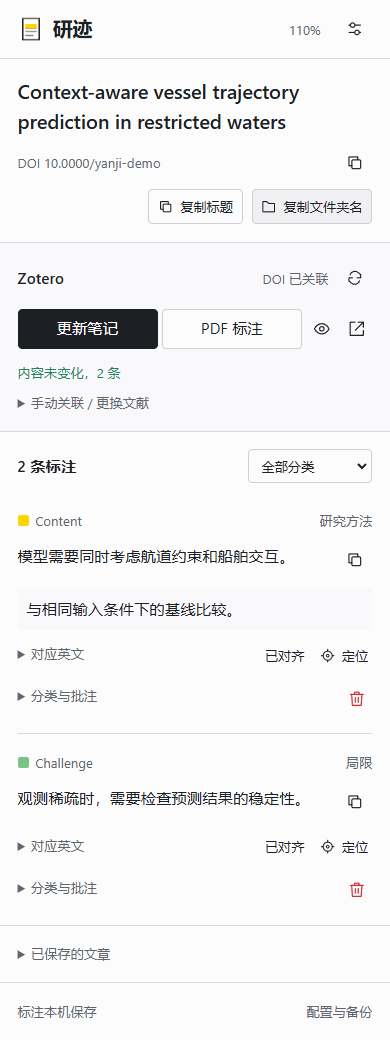
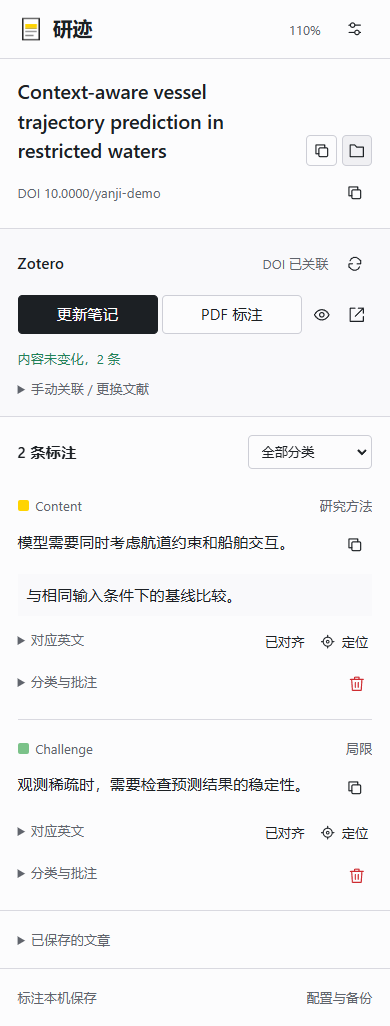
标题右下保留两个纯图标复制按钮，移除可见文字

diff --git a/yanji-edge/ui.css b/yanji-edge/ui.css
@@ -2,4 +2,4 @@
 *{box-sizing:border-box}body{margin:0;font:inherit;color:inherit}button,input,select,textarea{font:inherit;color:inherit}button{cursor:pointer;min-height:34px;border:.5px solid var(--control-line);border-radius:4px;background:var(--bg);padding:5px 10px;display:inline-flex;align-items:center;justify-content:center;gap:6px}button:hover{background:var(--element)}button.primary{background:var(--accent);border-color:var(--accent);color:var(--on-accent)}button.primary:hover{background:var(--accent-hover)}button:disabled{cursor:default;color:var(--disabled);background:var(--ground);border-color:var(--line)}button.danger{color:var(--error)}button.icon{width:32px;min-height:32px;padding:7px;border-color:transparent;background:transparent;flex:none}button.icon:hover{background:var(--element)}button.quiet{border-color:transparent;background:transparent;color:var(--muted)}button.quiet:hover{background:var(--element);color:var(--text)}svg{flex:none;pointer-events:none}button:focus-visible,input:focus-visible,select:focus-visible,textarea:focus-visible,summary:focus-visible,a:focus-visible,label[role=button]:focus-visible{outline:.5px solid var(--text);outline-offset:3px}input,select,textarea{border:.5px solid var(--control-line);border-radius:4px;background:var(--bg);padding:6px 8px;min-width:0}textarea{resize:vertical;min-height:88px;width:100%}input[type=checkbox]{accent-color:var(--accent);width:16px;height:16px;flex:none;margin:0}input[type=range]{accent-color:var(--muted);padding:0;height:30px}a{color:inherit}p{margin:8px 0}h1{font-size:18px;line-height:1.5;margin:8px 0;font-weight:600;overflow-wrap:anywhere}h2{font-size:14px;font-weight:600;margin:0 0 16px}small,.muted{font-size:12px;color:var(--muted)}[hidden]{display:none!important}.row{display:flex;align-items:center;gap:8px;flex-wrap:wrap}.between{justify-content:space-between}.status{font-size:12px;color:var(--muted);white-space:pre-wrap;overflow-wrap:anywhere;margin:8px 0}.status:empty{display:none}.status.error{color:var(--error)}.status.success{color:var(--success)}.brand{display:flex;gap:8px;align-items:center;font-size:18px;font-weight:600}.brand img{width:24px;height:24px}.topbar{position:sticky;top:0;z-index:20;height:54px;background:var(--bg);display:flex;align-items:center;justify-content:space-between;padding:10px 16px;border-bottom:.5px solid var(--line);gap:12px}.section{padding:16px;border-bottom:.5px solid var(--line)}.context-line{font-size:12px;color:var(--muted);overflow-wrap:anywhere;margin:0}.connection{background:var(--ground)}.connection h2{margin:0}.bound-title{font-size:14px;font-weight:500;overflow-wrap:anywhere;margin:8px 0}.search-row{display:flex;gap:8px;margin:12px 0}.search-row input{width:100%}.search-row button{flex:none}.results{display:grid;gap:6px;max-height:240px;overflow:auto}.result{text-align:left;display:block;width:100%;font-size:14px;padding:8px}.result small{display:block;margin-top:4px}.sync-actions{display:flex;gap:4px;flex-wrap:wrap;margin:12px 0}.sync-actions>#sync,.sync-actions>#pdf-open{flex:1;font-size:14px;padding:6px;white-space:nowrap}.sync-actions>.icon{width:28px;min-height:34px;padding:6px}.summary{display:flex;gap:8px;align-items:center;font-weight:600;flex-wrap:wrap}.summary select{max-width:160px;min-width:0;font-weight:400;margin-left:auto;font-size:12px}.annotation{padding:16px 0;border-bottom:.5px solid var(--line)}.annotation:last-child{border:0;padding-bottom:0}.annotation-header{display:flex;gap:6px;align-items:center;font-size:12px;color:var(--muted);min-width:0}.heading-label{margin-left:auto;overflow:hidden;text-overflow:ellipsis;white-space:nowrap;max-width:50%}.swatch{display:inline-block;width:10px;height:10px;border-radius:2px;flex:none}.quote{font-size:14px;line-height:1.8;white-space:pre-wrap;overflow-wrap:anywhere;margin:10px 0}.comment{font-size:14px;white-space:pre-wrap;background:var(--ground);padding:8px;margin:8px 0}.quote-copy{float:right;margin:0 0 0 6px}.quote::after{content:"";display:block;clear:both}details{font-size:12px}summary{cursor:pointer;color:var(--muted)}details[open]>summary{margin-bottom:10px}.edit-label{display:block;margin:8px 0 4px;font-size:12px;color:var(--muted)}.original{font-size:14px;color:var(--muted);line-height:1.75;overflow-wrap:anywhere}.empty{color:var(--muted);padding:20px 0;line-height:1.8}.footer{padding:12px 16px;color:var(--muted);font-size:12px;display:flex;align-items:center;justify-content:space-between;gap:8px}.footer button{border:0;background:transparent;padding:0;min-height:28px;font-size:12px}.archive-list{display:grid;gap:6px;max-height:240px;overflow:auto}.archive-list button{display:block;text-align:left;font-size:14px}.archive-list small{display:block}.panel-body{min-width:0}.metadata-row{display:flex;align-items:center;gap:8px;min-width:0}.metadata-row p{flex:1;min-width:0}.connection-heading{display:flex;align-items:center;gap:8px;flex-wrap:wrap}.connection-heading h2{margin:0 auto 0 0}.connection-heading .status{margin:0}.original-row,.edit-row{display:flex;align-items:flex-start;gap:6px;margin-top:8px}.original-row>details,.edit-row>details{flex:1;min-width:0;margin:0}.original-row>span{flex:1}.original-row summary,.edit-row summary{min-height:30px;display:list-item;padding-top:4px}.locate-button{min-height:30px;border-color:transparent;background:transparent;font-size:12px;padding:3px}.locate-button:hover{background:var(--element)}.original-row .original{margin-bottom:4px;white-space:pre-wrap}.original-row .locate-button svg{width:14px;height:14px}.original-row>.source-link{flex:1;justify-content:flex-start;padding-left:0;color:var(--muted)}.edit-row .danger{width:28px;min-height:28px}.zoom-control{font-size:12px;min-height:28px;padding:2px 6px;color:var(--muted);border-color:transparent;background:transparent;white-space:nowrap}.pager{display:flex;align-items:center;justify-content:space-between;gap:8px;margin-top:16px;font-size:12px;color:var(--muted)}.pager button{font-size:12px;min-height:30px;padding:4px 8px}
 dialog{border:.5px solid var(--control-line);border-radius:10px;width:680px;max-width:calc(var(--view-width,100vw) - 24px);max-height:calc(var(--view-height,100vh) - 32px);padding:18px;background:var(--bg);color:var(--text);overflow:hidden}dialog[open]{display:flex;flex-direction:column;gap:12px}dialog::backdrop{background:var(--scrim)}.dialog-header,.row.between{display:flex;align-items:center;justify-content:space-between;gap:12px;flex:none}.dialog-header strong,dialog>.row strong{font-size:18px;font-weight:600}.dialog-header>.icon,dialog>.row>.icon{margin-right:-6px}.dialog-actions{flex:none;padding-top:12px;border-top:.5px solid var(--line);display:flex;flex-direction:column;gap:8px;align-items:flex-end}.dialog-actions>.status{margin:0;align-self:stretch}.dialog-actions>.row{width:100%;justify-content:flex-end}.dialog-actions .primary{min-height:38px}.preview-body{overflow:auto;min-height:0;max-height:65vh;font-size:14px}.preview-body h1{font-size:18px}.preview-body h2{font-size:14px;margin-top:20px}.preview-body blockquote{border:0;background:var(--ground);margin:12px 0;padding:8px 12px}.preview-body p{overflow-wrap:anywhere}.preview-body .original{white-space:pre-wrap}.sentence-controls{display:flex;align-items:center;gap:8px;flex-wrap:wrap}.sentence-controls select{flex:0 1 120px}.sentence-controls .quiet{margin-left:auto;font-size:12px}.sentence-controls .muted{font-size:12px}#chinese-excerpt{flex:none;max-height:120px;overflow:auto;margin:0;padding:0 0 12px;border-bottom:.5px solid var(--line)}#english-candidates{overflow:auto;min-height:0;flex:1}.sentence-candidate{display:flex;align-items:flex-start;gap:10px;font-size:14px;line-height:1.75;padding:10px 8px;border-bottom:.5px solid var(--line)}.sentence-candidate input{margin-top:5px;flex:none}.sentence-candidate:has(input:checked){background:var(--element)}.sentence-candidate:hover{background:var(--ground)}.pdf-filebar{display:flex;align-items:center;gap:8px;flex:none}#pdf-attachment,#pdf-file-name{flex:1;min-width:0;font-size:12px}#pdf-file-name{overflow:hidden;text-overflow:ellipsis;white-space:nowrap;color:var(--muted)}#pdf-results{min-height:0;overflow:auto;flex:1}.pdf-match{padding:4px 0 16px;border-bottom:.5px solid var(--line)}.pdf-match:last-child{border-bottom:0;padding-bottom:0}.pdf-match>.quote{margin:8px 0}.pdf-match>.original{margin:8px 0 12px}.pdf-targets{display:flex;align-items:center;gap:8px;justify-content:space-between}.pdf-targets select{max-width:100%;font-size:12px}.pdf-targets .check,.pdf-targets .quiet{font-size:12px}.pdf-targets .quiet{padding:4px 6px;min-height:30px}#pdf-status{line-height:1.6}
 :root[data-view="options"]{background:var(--ground)}.options-body{background:var(--ground);min-height:var(--view-height,100vh)}.options-shell{width:100%;margin:0;padding:clamp(24px,3vw,48px) clamp(16px,3vw,64px) 48px}.options-shell>header{display:flex;align-items:center;justify-content:space-between;gap:16px;margin-bottom:24px}.options-shell .brand img{width:28px;height:28px}.options-shell h1{font-size:18px;margin:0}.options-shell h1 span{font-size:14px;color:var(--muted);font-weight:400;margin-left:16px}.version{font-size:12px;color:var(--muted)}.settings-tabs{display:flex;gap:24px;border-bottom:.5px solid var(--line);margin-bottom:24px;overflow:auto}.settings-tabs button{border:0;border-radius:0;background:transparent;border-bottom:.5px solid transparent;padding:10px 0 12px;min-width:max-content;color:var(--muted)}.settings-tabs button[aria-current]{color:var(--text);font-weight:600;border-bottom-color:var(--text)}.settings-section{background:var(--bg);border:.5px solid var(--line);padding:24px;margin-bottom:20px}.section-heading{display:flex;align-items:center;justify-content:space-between;gap:16px;margin-bottom:16px}.section-heading h2{margin:0}.section-heading p{margin:4px 0 0}.category-row{display:grid;grid-template-columns:36px minmax(140px,240px) minmax(200px,1fr) 96px;gap:12px;align-items:center;padding:10px 0;border-bottom:.5px solid var(--line)}.category-row:last-child{border-bottom:0}.category-row input[type=color]{width:32px;height:34px;padding:4px;cursor:pointer}.category-row input{width:100%}.category-tools{display:flex;align-items:center;gap:0}.category-tools button.icon{width:32px}.category-labels{color:var(--muted);font-size:12px;padding-top:0}.settings-grid{display:grid;grid-template-columns:minmax(0,1fr) minmax(0,1fr);gap:20px 24px}.field label{display:block;margin-bottom:8px;font-size:12px;color:var(--muted)}.field input:not([type=checkbox]),.field select{width:100%}.field output{float:right;color:var(--muted);font-size:12px}.check{display:flex;align-items:center;gap:8px;font-size:14px}.reading-groups{display:grid;gap:24px}.settings-group{min-width:0}.settings-group+.settings-group{border-top:.5px solid var(--line);padding-top:24px}.reading-choice{grid-column:1/-1}:root.ui-wide .reading-groups{grid-template-columns:minmax(0,1fr) minmax(0,1fr);gap:32px}:root.ui-wide .settings-group+.settings-group{border-top:0;padding-top:0;border-left:.5px solid var(--line);padding-left:32px}.savebar{display:flex;justify-content:flex-end;align-items:center;gap:16px;padding:0 0 4px}.savebar .status{margin:0}.savebar .primary{min-width:112px}.backup-controls{display:flex;gap:8px;flex-wrap:wrap;margin:16px 0}.backup-controls label{display:inline-flex;align-items:center;cursor:pointer;border:.5px solid var(--control-line);border-radius:4px;padding:5px 10px;min-height:34px;font-size:14px}.backup-controls input{display:none}.backup-details{margin-top:24px;border-top:.5px solid var(--line);padding-top:20px}.style-picker{display:flex;gap:16px;align-items:center;flex-wrap:wrap}.style-picker select{flex:1;min-width:min(150px,100%)}.style-sample{font-size:14px;line-height:1.8;white-space:nowrap;text-decoration-thickness:2px;text-underline-offset:3px}:root.ui-compact .options-shell{padding:20px 16px 36px}:root.ui-compact .options-shell h1 span{margin-left:10px}:root.ui-compact .settings-section{padding:16px}:root.ui-compact .settings-tabs{gap:20px}:root.ui-compact .category-row{grid-template-columns:32px 1fr 96px;gap:8px}:root.ui-compact .category-row .meaning{grid-column:2/4;grid-row:2}:root.ui-compact .category-row .category-tools{grid-column:3;grid-row:1}:root.ui-compact .category-labels{display:none}:root.ui-compact .settings-grid{grid-template-columns:1fr}:root.ui-compact .version{display:none}
-.title-actions{display:flex;justify-content:flex-end;gap:8px;flex-wrap:wrap;margin-top:8px}.copy-choice{font-size:12px;min-height:32px;padding:5px 8px;white-space:nowrap}.copy-choice svg{width:14px;height:14px}.folder-copy{background:var(--element)}.folder-copy:hover{background:var(--hover)}.article-heading #title{margin:0 0 8px}.annotation-section>.summary{position:sticky;top:54px;z-index:10;background:var(--bg);margin-top:-8px;padding:8px 0}.annotation-header .heading-label{min-width:0}:root.ui-tight .panel-body .brand img{display:none}:root.ui-tight .copy-choice{padding-left:6px;padding-right:6px}:root.ui-tight .panel-body .topbar{padding-left:12px;padding-right:12px}.sentence-candidate:last-child{border-bottom:0}@media(prefers-reduced-motion:reduce){*{scroll-behavior:auto!important}}*{scrollbar-color:var(--control-line) var(--bg);scrollbar-width:thin}
+.title-row{display:flex;align-items:flex-end;gap:8px}.title-row #title{flex:1;min-width:0}.title-actions{display:flex;gap:4px;flex:none;margin-bottom:8px}.copy-choice{width:28px;height:28px;min-height:28px;padding:5px;flex:none}.copy-choice svg{width:16px;height:16px}.folder-copy{background:var(--element)}.folder-copy:hover{background:var(--hover)}.article-heading #title{margin:0 0 8px}.annotation-section>.summary{position:sticky;top:54px;z-index:10;background:var(--bg);margin-top:-8px;padding:8px 0}.annotation-header .heading-label{min-width:0}:root.ui-tight .panel-body .brand img{display:none}:root.ui-tight .panel-body .topbar{padding-left:12px;padding-right:12px}.sentence-candidate:last-child{border-bottom:0}@media(prefers-reduced-motion:reduce){*{scroll-behavior:auto!important}}*{scrollbar-color:var(--control-line) var(--bg);scrollbar-width:thin}

diff --git a/yanji-edge/panel.html b/yanji-edge/panel.html
@@ -2,7 +2,7 @@
 <body class="panel-body">
 <header class="topbar"><div class="brand"><img src="icons/32.png" alt="">研迹</div><div class="row"><button id="view-zoom" class="zoom-control" title="Ctrl + 滚轮缩放 点击恢复 100%">110%</button><button id="options" class="icon" title="偏好设置" aria-label="偏好设置"></button></div></header>
 <main>
-<section class="section article-heading"><h1 id="title">读取当前文章…</h1><div class="metadata-row"><p id="source" class="context-line"></p><button id="copy-doi" class="icon" title="复制 DOI" aria-label="复制 DOI"></button></div><div class="title-actions"><button id="copy-title" class="copy-choice" title="原样复制完整标题" aria-label="复制完整标题" disabled></button><button id="copy-folder-title" class="copy-choice folder-copy" title="复制可用于文件夹命名的标题" aria-label="复制文件夹名称" disabled></button></div><p id="page-status" class="status" role="status"></p></section>
+<section class="section article-heading"><div class="title-row"><h1 id="title">读取当前文章…</h1><div class="title-actions"><button id="copy-title" class="copy-choice" title="复制完整标题" aria-label="复制完整标题" disabled></button><button id="copy-folder-title" class="copy-choice folder-copy" title="复制文件夹名（去除禁用字符）" aria-label="复制文件夹名称" disabled></button></div></div><div class="metadata-row"><p id="source" class="context-line"></p><button id="copy-doi" class="icon" title="复制 DOI" aria-label="复制 DOI"></button></div><p id="page-status" class="status" role="status"></p></section>
 <section id="zotero-section" class="section connection">
 <div class="connection-heading"><h2>Zotero</h2><span id="connection-status" class="status" role="status"></span><span id="match-status" class="status" role="status"></span><button id="connect" class="icon" title="检查连接" aria-label="检查连接"></button></div>
 <p id="binding" class="bound-title">尚未关联</p><div id="match-results" class="results"></div>

diff --git a/yanji-edge/options.html b/yanji-edge/options.html
@@ -1,6 +1,6 @@
 <!doctype html><html lang="zh-CN"><head><meta charset="utf-8"><meta name="viewport" content="width=device-width,initial-scale=1"><title>研迹 偏好设置</title><link rel="stylesheet" href="ui.css"></head>
 <body class="options-body"><main class="options-shell">
-<header><div class="brand"><img src="icons/32.png" alt=""><h1>研迹<span>偏好设置</span></h1></div><div class="row"><button id="view-zoom" class="zoom-control" title="Ctrl + 滚轮缩放 点击恢复 100%">110%</button><span class="version">v0.5.1</span></div></header>
+<header><div class="brand"><img src="icons/32.png" alt=""><h1>研迹<span>偏好设置</span></h1></div><div class="row"><button id="view-zoom" class="zoom-control" title="Ctrl + 滚轮缩放 点击恢复 100%">110%</button><span class="version">v0.5.2</span></div></header>
 <nav class="settings-tabs" aria-label="设置分区"><button data-tab="categories-tab" aria-current="page">颜色分类</button><button data-tab="reading-tab">阅读与浮窗</button><button data-tab="zotero-tab">Zotero</button><button data-tab="sharing-tab">配置与备份</button></nav>
 <form id="settings-form">
 <section id="categories-tab" class="settings-section tab-panel"><div class="section-heading"><div><h2>颜色与分类</h2></div><button id="add-category" type="button">添加分类</button></div><div class="category-row category-labels"><span>颜色</span><span>名称</span><span>含义</span><span>排序</span></div><div id="categories"></div></section>

diff --git a/yanji-edge/panel.js b/yanji-edge/panel.js
@@ -131,8 +131,8 @@ $("#close-sentences").innerHTML = Y.icon("close");
 $("#close-original").innerHTML = Y.icon("close");
 $("#close-original").onclick = () => $("#original-dialog").close();
 $("#original-dialog").onclose = () => $("#original-body").replaceChildren();
-$("#copy-title").innerHTML = Y.icon("copy") + "<span>复制标题</span>";
-$("#copy-folder-title").innerHTML = Y.icon("folder") + "<span>复制文件夹名</span>";
+$("#copy-title").innerHTML = Y.icon("copy");
+$("#copy-folder-title").innerHTML = Y.icon("folder");
 $("#copy-doi").innerHTML = Y.icon("copy");
 for(const [id,folder] of [["copy-title",false],["copy-folder-title",true]]) $("#"+id).onclick = async () => {
   if(!page)return;

diff --git a/yanji-edge/README.md b/yanji-edge/README.md
@@ -1,4 +1,4 @@
-# 研迹 · Zotero 网页标注 v0.5.1
+# 研迹 · Zotero 网页标注 v0.5.2
 
 Edge Manifest V3 本地扩展，无构建步骤和第三方运行时依赖。Edge 打开 edge://extensions/，启用开发人员模式，加载此文件夹；打开 Zotero 10 并启用设置中的本地通信，再刷新文章页。完整配置说明见仓库根目录 README.md 或安装包的“安装说明.html”。
 
@@ -35,7 +35,7 @@ Edge Manifest V3 本地扩展，无构建步骤和第三方运行时依赖。Edg
 
 ## 标题复制
 
-侧栏标题右下角直接提供“复制标题”和“复制文件夹名”两个按钮，无需菜单；“完整标题”原样复制全部标题，“文件夹名称”将 Windows 禁用字符 `\ / : * ? " < > |` 与控制字符替换为空格，合并空白、清除结尾的句点与空格。保留中文全角标点；遇到 CON、NUL 等保留名时添加下划线前缀，空名称改为“未命名”。不自动截断长标题；实际长度仍受 Windows 和存放路径限制。
+侧栏标题右下角直接提供复制和文件夹两个纯图标按钮，无需菜单；“完整标题”原样复制全部标题，“文件夹名称”将 Windows 禁用字符 `\ / : * ? " < > |` 与控制字符替换为空格，合并空白、清除结尾的句点与空格。保留中文全角标点；遇到 CON、NUL 等保留名时添加下划线前缀，空名称改为“未命名”。不自动截断长标题；实际长度仍受 Windows 和存放路径限制。
 
 ## Zotero PDF 高亮
 
@@ -45,6 +45,6 @@ Edge Manifest V3 本地扩展，无构建步骤和第三方运行时依赖。Edg
 
 修复 Zotero 拒绝大写十六进制颜色的问题，写入时统一为同色的小写值，不改动个人分类颜色。新增离线规则预选，不联网、不下载模型、不自动保存。界面使用 Radix 中性配色、12/14/18px 字号和 0.5px 边框；个人高亮色继续保留。PDF 唯一位置改为勾选项，多位置才显示选择框。Radix 第三方许可见 Radix-Colors-LICENSE.txt，不改变研迹自身授权。
 
-## v0.5.1
+## v0.5.2
 
-PDF 批注只写纯文本中文摘录与个人批注，不再附带来源网址或生成“研迹PDF标注”“研迹句对:…”系统标签。Challenge 等分类标签及其他手动标签保留。内部关联随个人完整备份迁移，用来重复更新同一高亮。侧栏改为全宽标题、两个直接复制按钮和固定的筛选栏，减少重复信息。
+PDF 批注只写纯文本中文摘录与个人批注，不再附带来源网址或生成“研迹PDF标注”“研迹句对:…”系统标签。Challenge 等分类标签及其他手动标签保留。内部关联随个人完整备份迁移，用来重复更新同一高亮。侧栏复制图标与文件夹图标固定在标题右下，分类筛选保持可见，减少重复信息。
